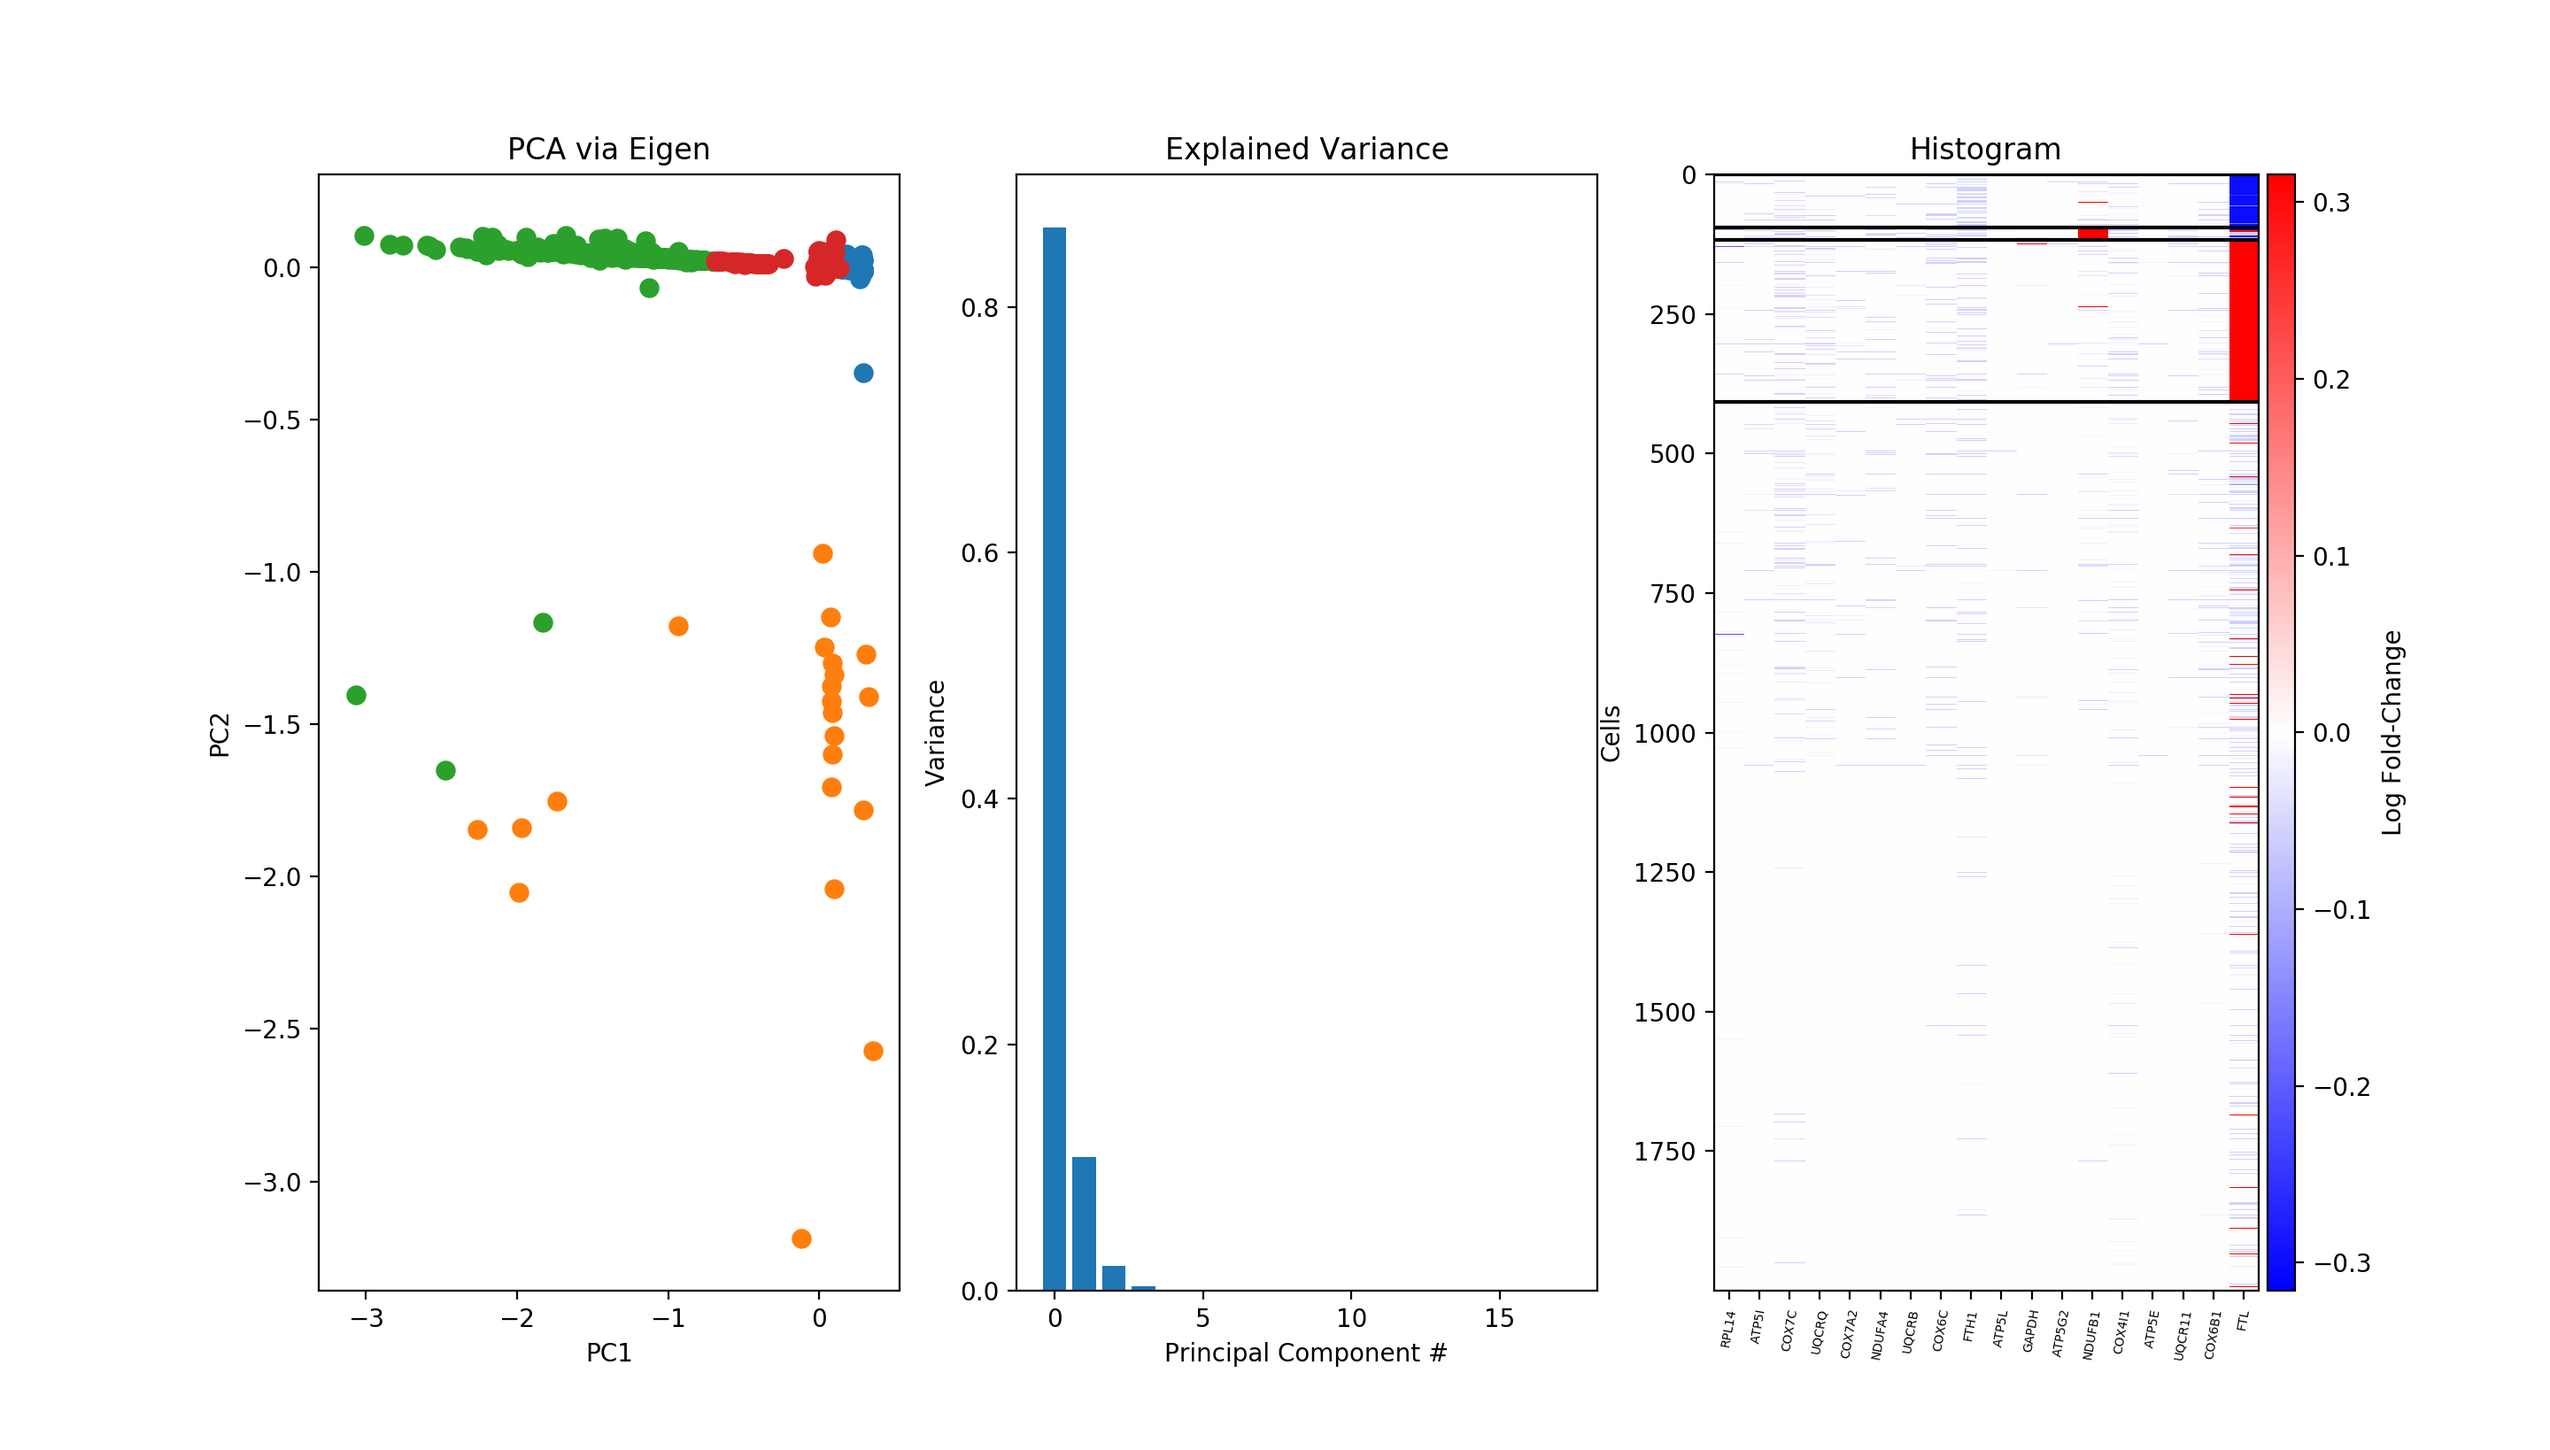
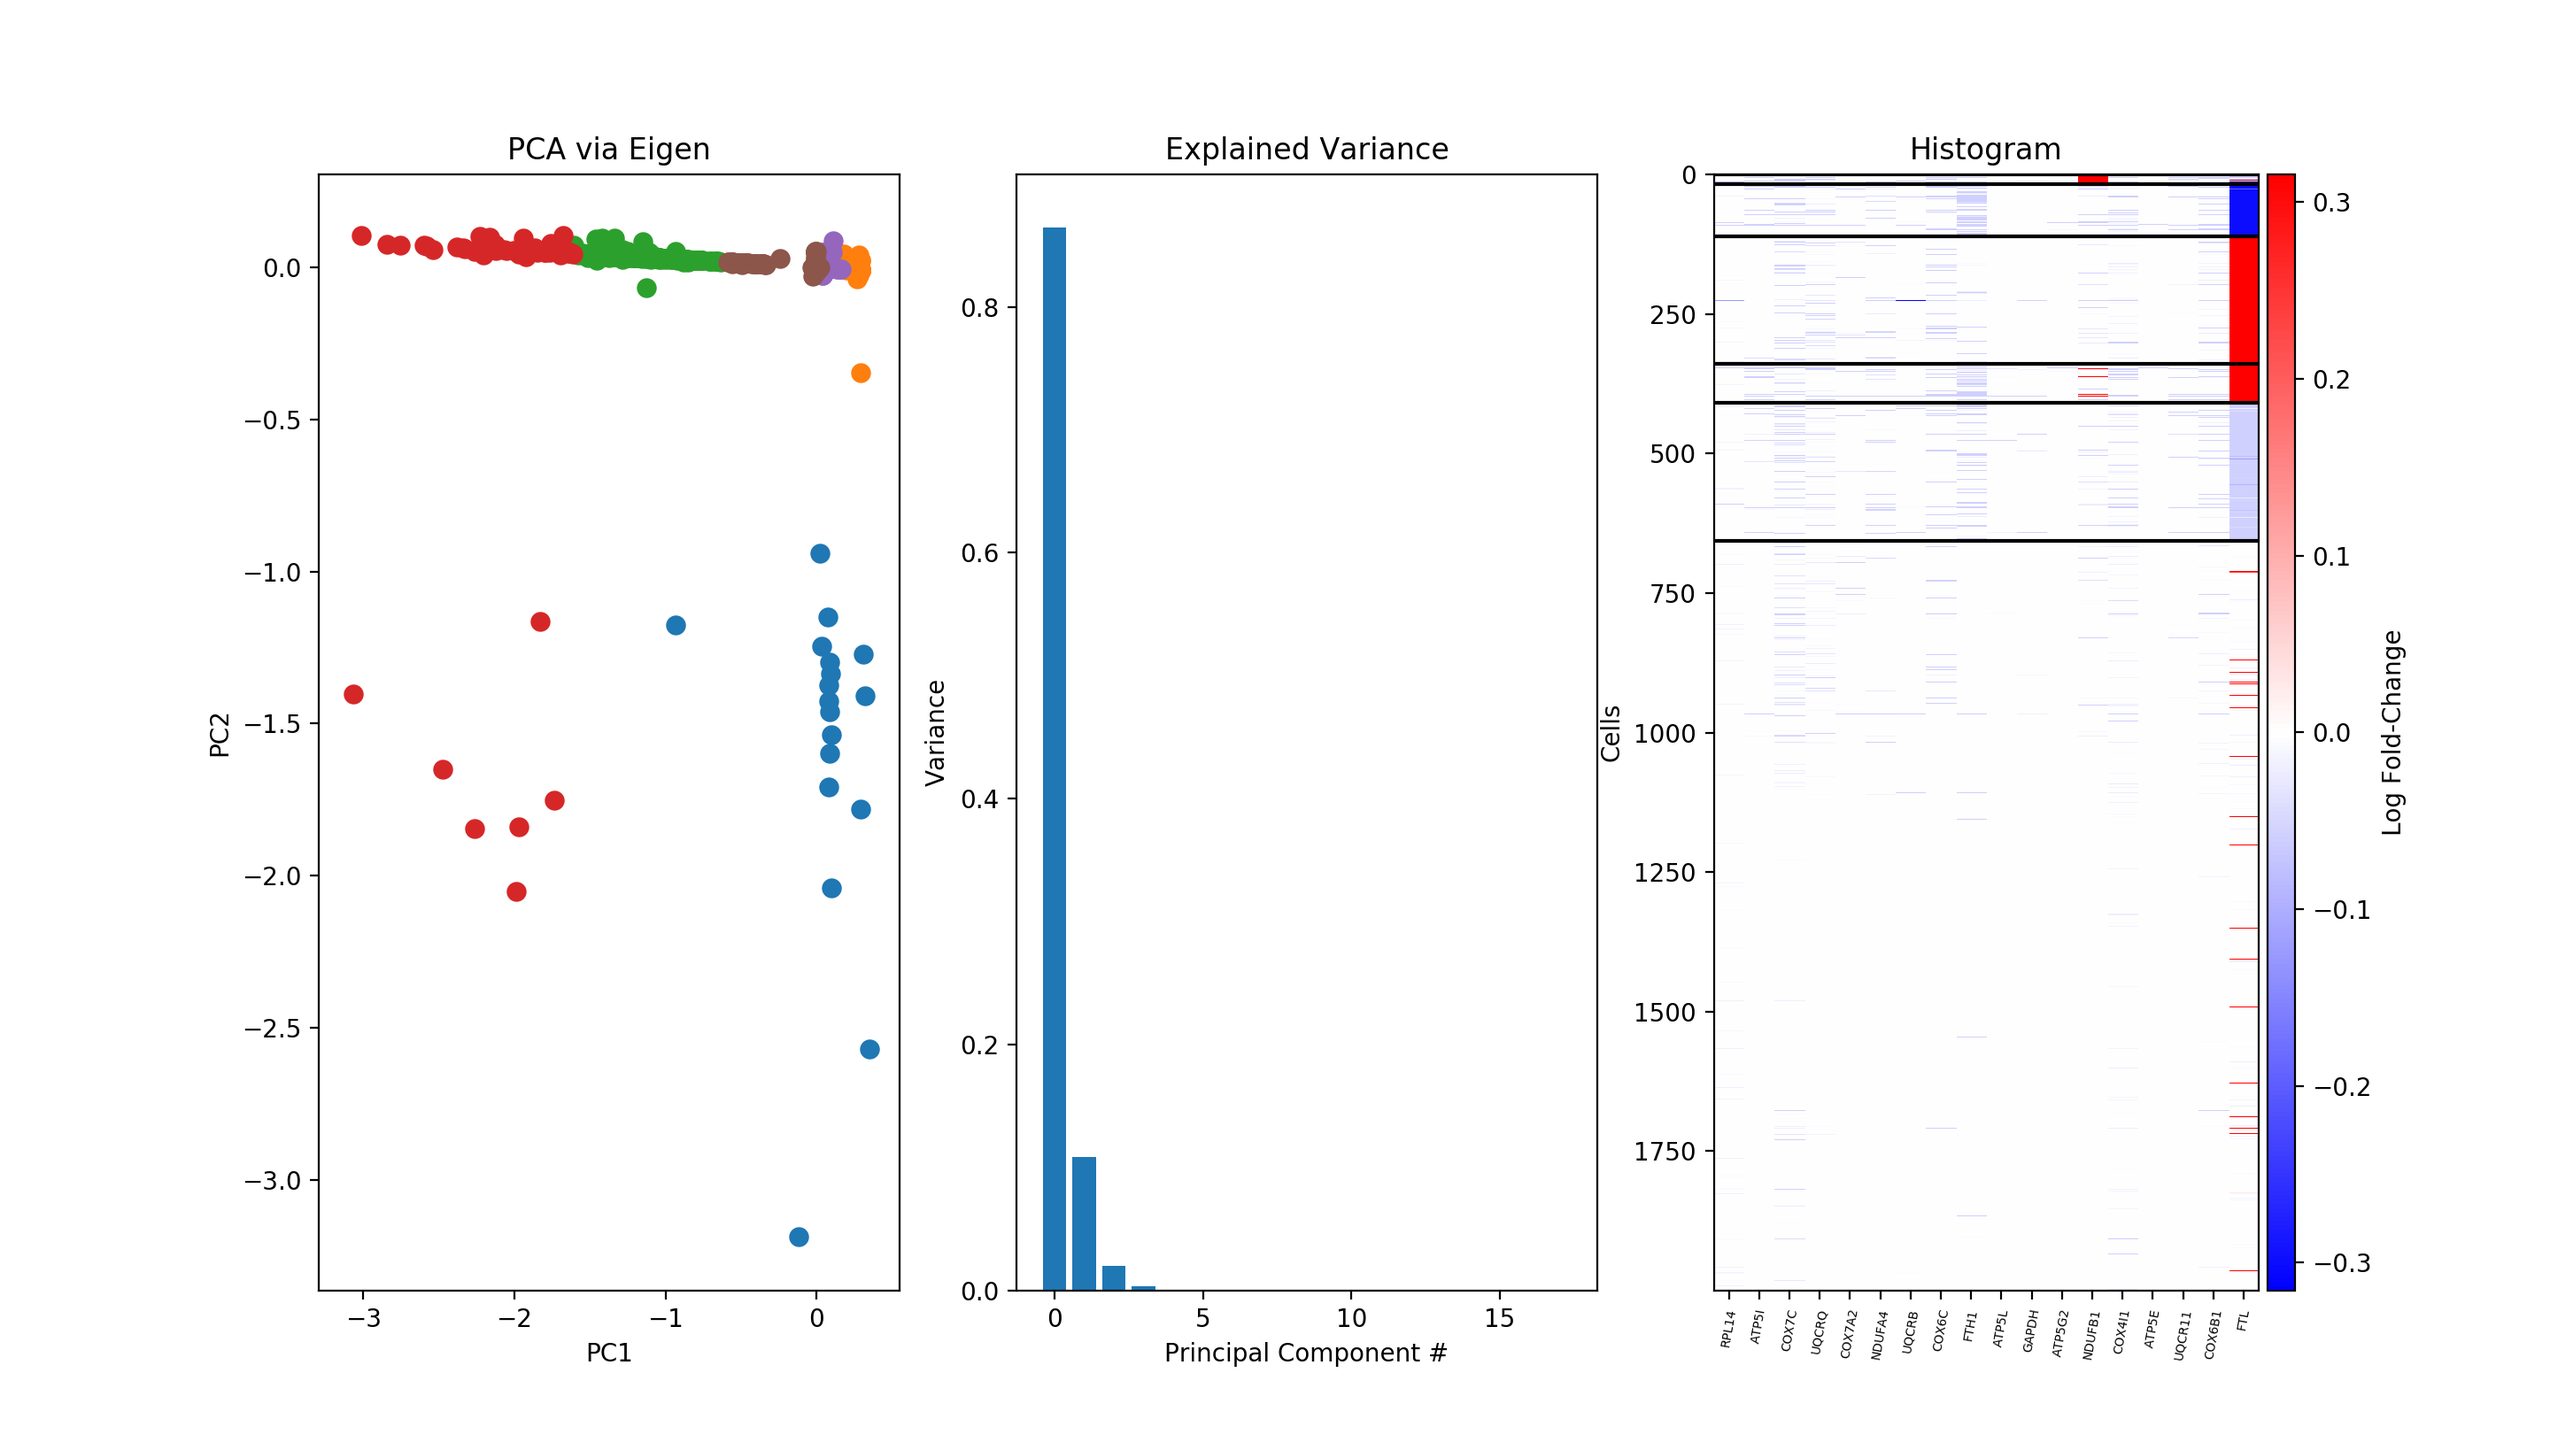
dendrogram

diff --git a/Final_KY_Jelly/main_updated.py b/Final_KY_Jelly/main_updated.py
@@ -15,18 +15,27 @@ genes = 1800
 threshold = .7
 threads = mp.cpu_count() - 1
 plot = False
+atp = False
+etoh = True
+global met_name
 
 # import model and make objective atp_c
 # ALCD2X, etoh_c
 modelOriginal = cobra.io.load_matlab_model('Recon3D.mat')
-rxnName = 'atp_drain'
-met_name = 'atp_c'
-stoich = [-1]
-tempRxn = cobra.Reaction(rxnName)
-tempDrainMetDict = {modelOriginal.metabolites.get_by_id(met_name): s for name, s in zip(met_name, stoich)}
-tempRxn.add_metabolites(tempDrainMetDict)
-modelOriginal.add_reaction(tempRxn)
-modelOriginal.objective = rxnName
+if atp:
+    rxnName = 'atp_drain'
+    met_name = 'atp_c'
+    stoich = [-1]
+    tempRxn = cobra.Reaction(rxnName)
+    tempDrainMetDict = {modelOriginal.metabolites.get_by_id(met_name): s for name, s in zip(met_name, stoich)}
+    tempRxn.add_metabolites(tempDrainMetDict)
+    modelOriginal.add_reaction(tempRxn)
+    modelOriginal.objective = rxnName
+if etoh:
+    met_name = "etoh_"
+    modelOriginal.reactions.get_by_id("ETOHt").lower_bound = 1000
+    modelOriginal.reactions.get_by_id("ETOHt").upper_bound = 1000
+    modelOriginal.objective = "ALCD2x"
 
 def optimize_for_gene(name, expression):
     # return flux balance analysis result for a particular gene and cell #

diff --git a/Final_KY_Jelly/dendrogram.py b/Final_KY_Jelly/dendrogram.py
@@ -1,0 +1,28 @@
+import scipy.cluster.hierarchy as hier
+import scipy.stats
+import numpy as np
+import umap
+import matplotlib.pyplot as plt
+
+
+# modifiable settings: cluster #, PC #
+clusternum = 6
+
+# load the data
+data = np.loadtxt('atp_cresults0.7threshold2000cells.txt.gz')
+# collect the names of genes
+dimf = open('atp_cdimensions_of_results0.7threshold2000cells.txt', 'r')
+dimnames = dimf.readline()
+# gene names are separated by ;s
+dimnames = dimnames.split(';')[:-1]
+print(dimnames)
+# make this so that cell nums are on the rows to cluster cells
+data = data - np.min(data)
+data = data + 1
+for i in range(len(data)):
+    data[i] = np.log10(data[i]) - np.log10(np.ones(len(data[i])) * scipy.stats.mode(data[i])[0])
+link = hier.linkage(data, method = 'ward')
+cut = hier.cut_tree(link)
+R = hier.dendrogram(link, p = 3, orientation = 'left', truncate_mode='lastp',
+                leaf_font_size = 15, get_leaves = True, labels=dimnames)
+plt.show()

diff --git a/Final_KY_Jelly/main.py b/Final_KY_Jelly/main.py
@@ -10,7 +10,7 @@ import time
 start_time = time.time()
 
 # modifiable variables: cell # (max 8444), gene # (max 1800), threshold is % unique cells
-cells = 8444
+cells = 2000
 genes = 1800
 threshold = .7
 threads = mp.cpu_count() - 1
@@ -98,7 +98,7 @@ if __name__ == "__main__":
             print('starting async')
             # find the place where the unique expression levels are 
             cell_locs = [index for index in range(len(ucind)) if ucind[index] == i]
-            cell_locs = np.where(ucind == i)
+            # cell_locs = np.where(ucind == i)
             # put the ApplyResult object in a list
             temp_result = p.apply_async(optimize_for_gene, args=(gene_matches[num], unique_cells[i]))
             # record instances of unique expression level results

diff --git a/Final_KY_Jelly/cluster.py b/Final_KY_Jelly/cluster.py
@@ -7,7 +7,7 @@ from matplotlib.colors import LogNorm
 
 
 # modifiable settings: cluster #, PC #
-clusternum = 6
+clusternum = 3
 
 # load the data
 data = np.loadtxt('atp_cresults0.7threshold2000cells.txt.gz')
@@ -41,7 +41,7 @@ k_means_sorted = tdata[:, 1:]
 # make plots
 fig, axs = plt.subplots(1, 3)
 # plot it
-im = axs[2].imshow(k_means_sorted, cmap='bwr', aspect='auto', vmin=data.min(), vmax=data.max())
+im = axs[2].imshow(k_means_sorted, cmap='bwr', aspect='auto', vmin=-data.max()/10, vmax=data.max()/10)
 divider = make_axes_locatable(axs[2])
 cax = divider.append_axes('right', size='5%', pad=0.05)
 fig.colorbar(im, cax=cax, orientation='vertical', label='Log Fold-Change')

diff --git a/Final_KY_Jelly/cluster_umap.py b/Final_KY_Jelly/cluster_umap.py
@@ -6,7 +6,7 @@ import matplotlib.pyplot as plt
 
 
 # modifiable settings: cluster #, PC #
-clusternum = 6
+clusternum = 4
 
 # load the data
 data = np.loadtxt('atp_cresults0.7threshold2000cells.txt.gz')
